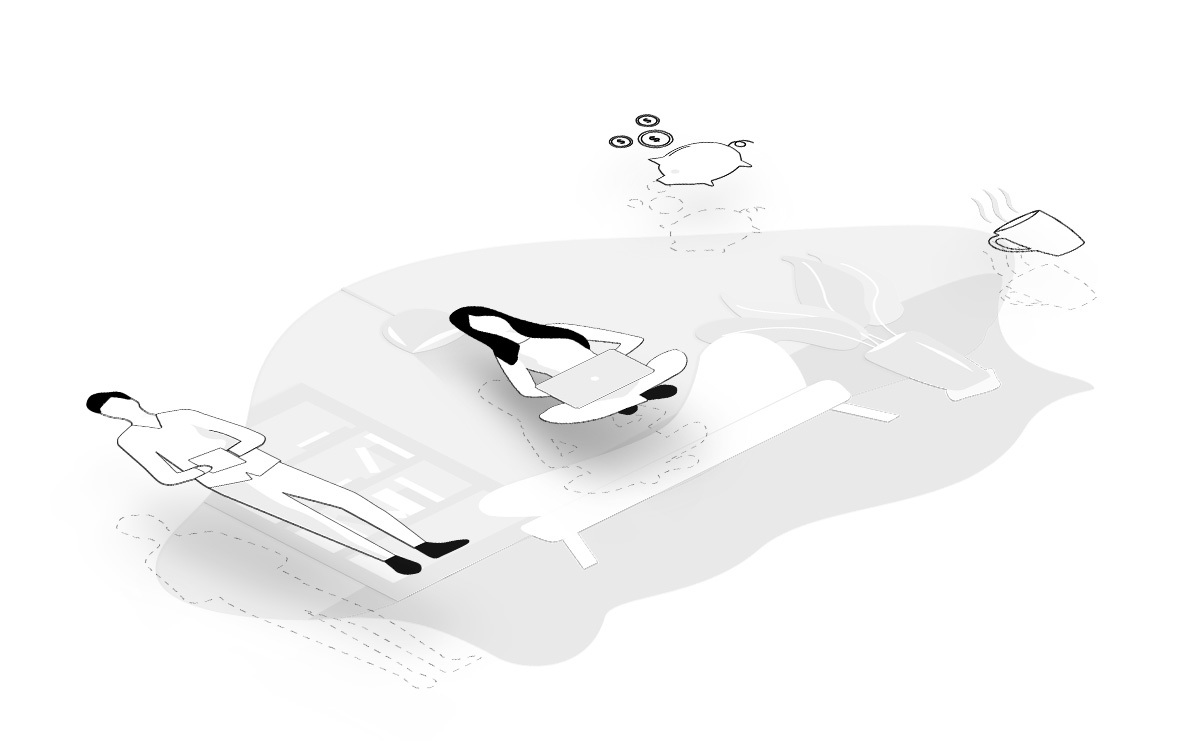
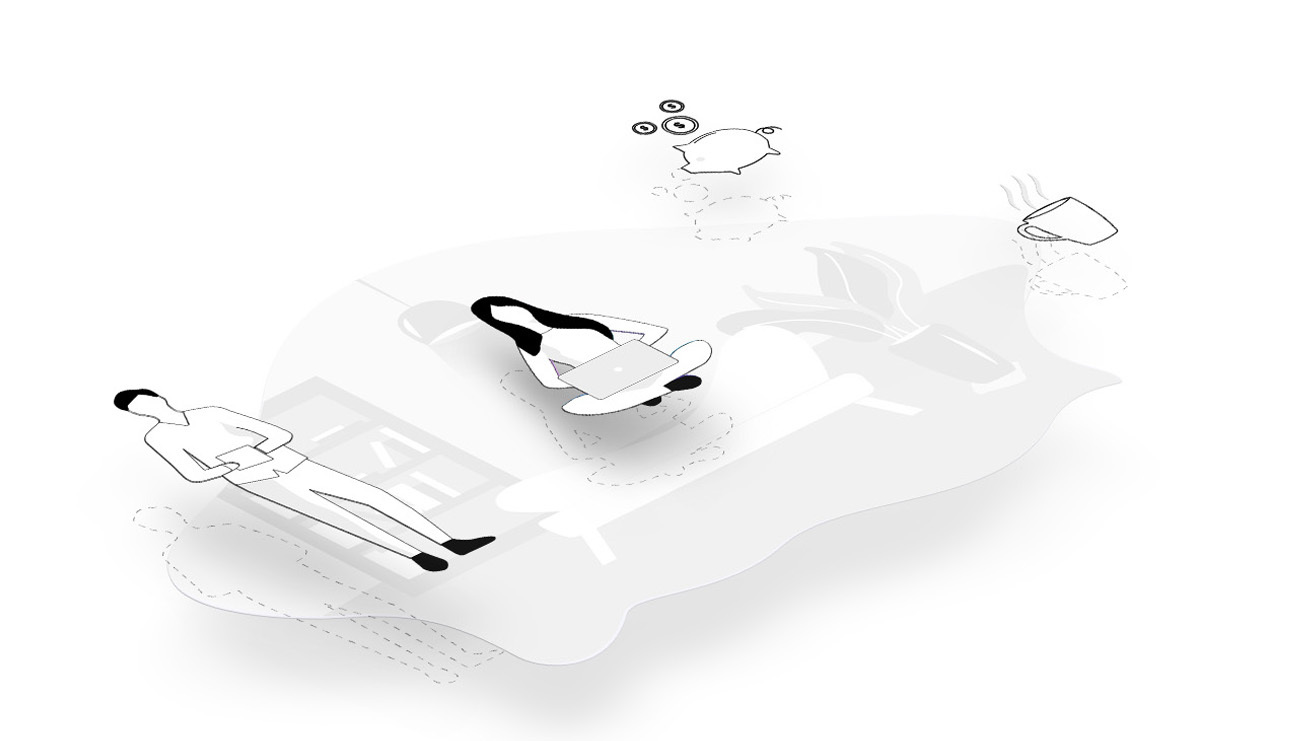
Refactor(index): Change images

diff --git a/_layouts/index.html b/_layouts/index.html
@@ -79,12 +79,7 @@ height="0" width="0" style="display:none;visibility:hidden"></iframe></noscript>
 
 							<div class="position-relative">
 								<div class="illustration-colored">
-									<img src="{{ path-general }}/assets/img/pp.png" class="illustration1">
-									<img src="{{ path-general }}/assets/img/pr1.png" class="illustration2">
-									<img src="{{ path-general }}/assets/img/pr2.png" class="man-float">
-									<img src="{{ path-general }}/assets/img/women-float.png" class="women-float">
-									<img src="{{ path-general }}/assets/img/coffee-float.png" class="coffee-float">
-									<img src="{{ path-general }}/assets/img/pig-float.png" class="pig-float">
+									<img src="{{ path-general }}/assets/img/img-header-gradient.jpg" class="illustrations-outline">
 								</div>
 
 								<div class="illustration-outline opacity-0">
